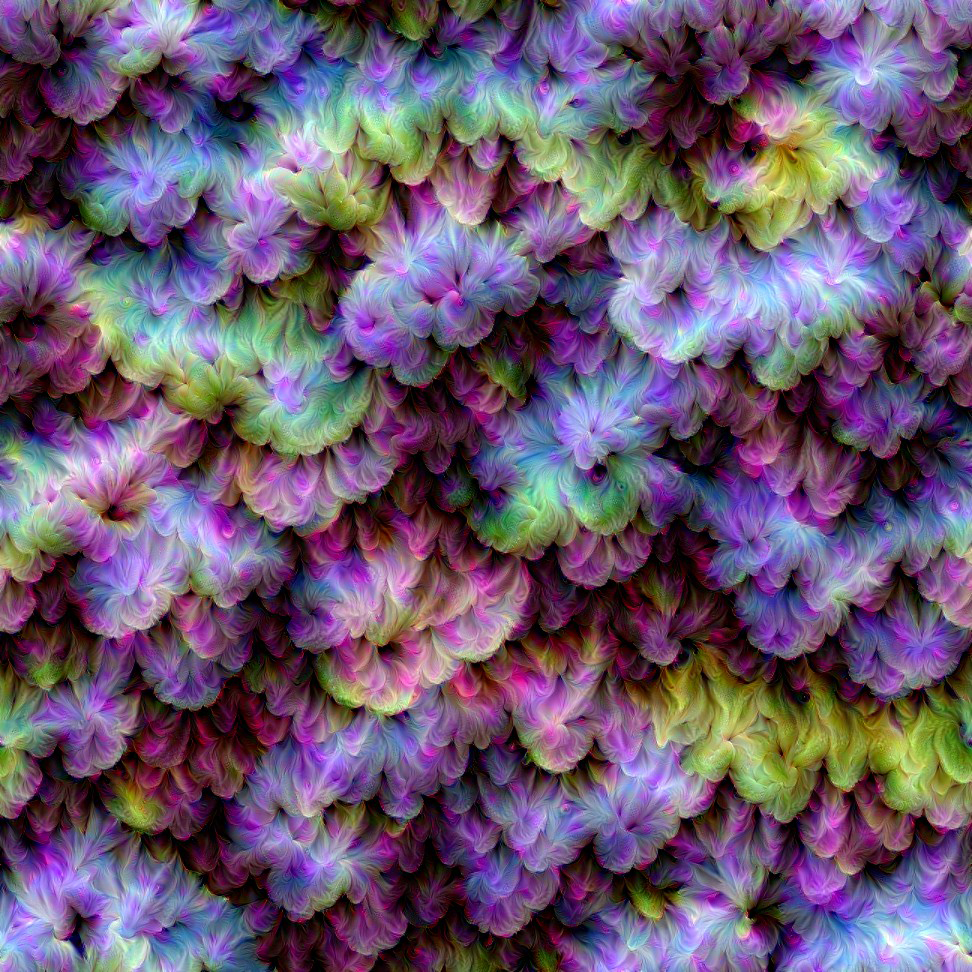
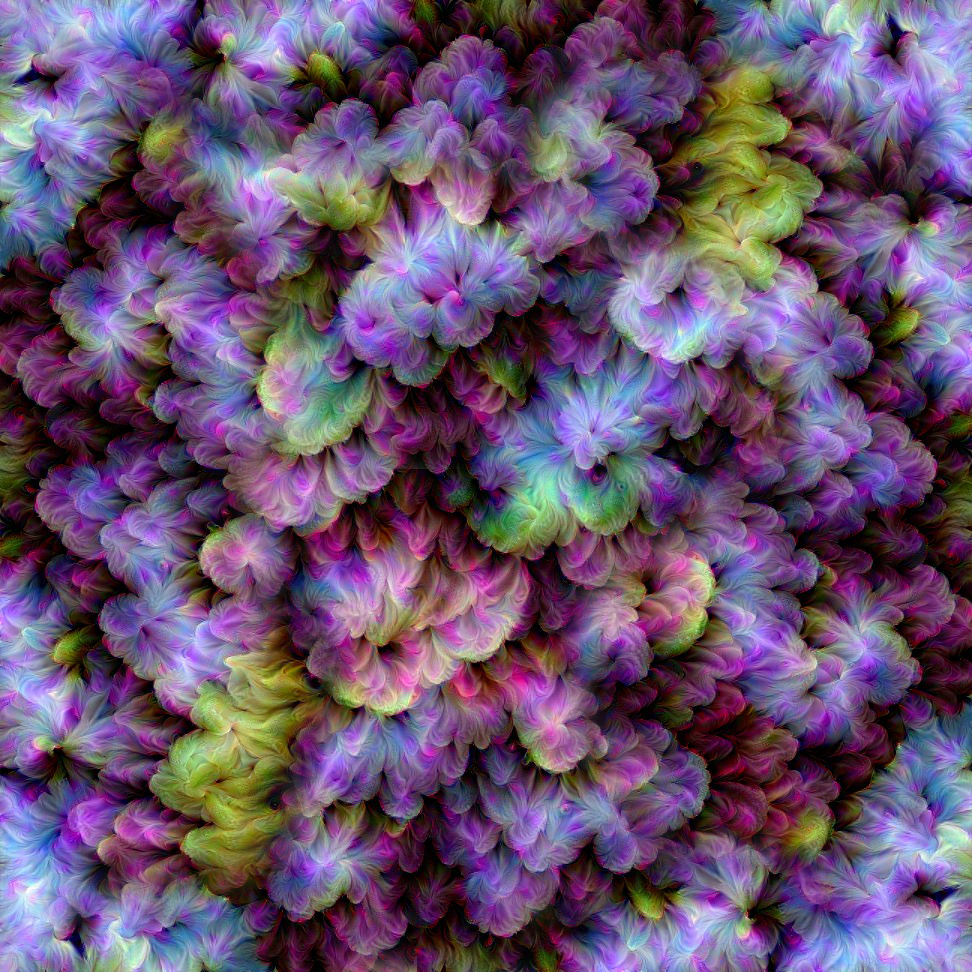
test up img

diff --git a/js/script.js b/js/script.js
@@ -33,7 +33,7 @@ controls = new THREE.OrbitControls( camera, renderer.domElement);
 // creates the shape
 var geometry = new THREE.CubeGeometry( 250, 250, 250 );
 var cubeMaterials = [
-    new THREE.MeshBasicMaterial({ map: new THREE.TextureLoader().load( 'img/tst_ft.gif' ), side: THREE.DoubleSide }), //front side
+    new THREE.MeshBasicMaterial({ map: new THREE.TextureLoader().load( 'img/pv_ft.png' ), side: THREE.DoubleSide }), //front side
     new THREE.MeshBasicMaterial({ map: new THREE.TextureLoader().load( 'img/pv_bk.png' ), side: THREE.DoubleSide }), //back side
     new THREE.MeshBasicMaterial({ map: new THREE.TextureLoader().load( 'img/pv_up.png' ), side: THREE.DoubleSide }), //up side
     new THREE.MeshBasicMaterial({ map: new THREE.TextureLoader().load( 'img/pv_dn.png' ), side: THREE.DoubleSide }), //down side
